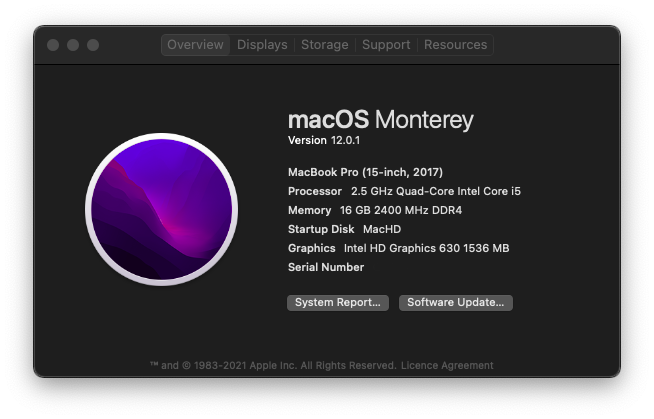
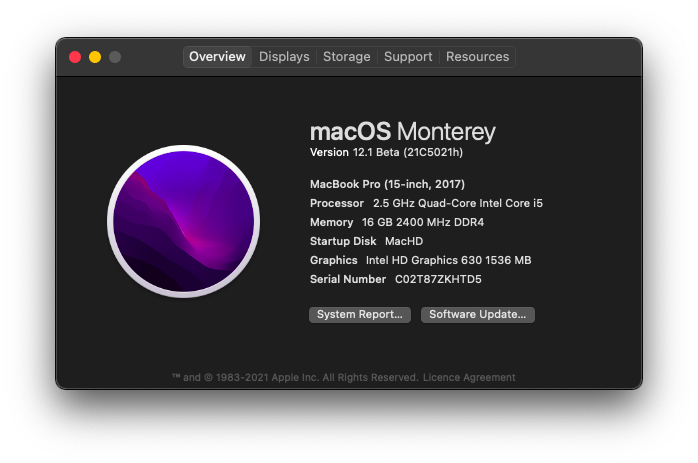
feat : updated to macOS 12.1 beta

diff --git a/README.md b/README.md
@@ -4,7 +4,7 @@ If you loved my work, bestow it with a ⭐
 
 [![Preview](snap.png)](https://github.com/afkniladri/Acer-Nitro5-Hackintosh-OC/)
 
-# macOS Monterey : version 12.0.1
+# macOS Monterey : version 12.1 Beta
 
 The project was made from scratch with the help of [Opencore - Dortania Guide](https://dortania.github.io/OpenCore-Install-Guide/). A huge thanks to the awesome community for the documantation.
 
